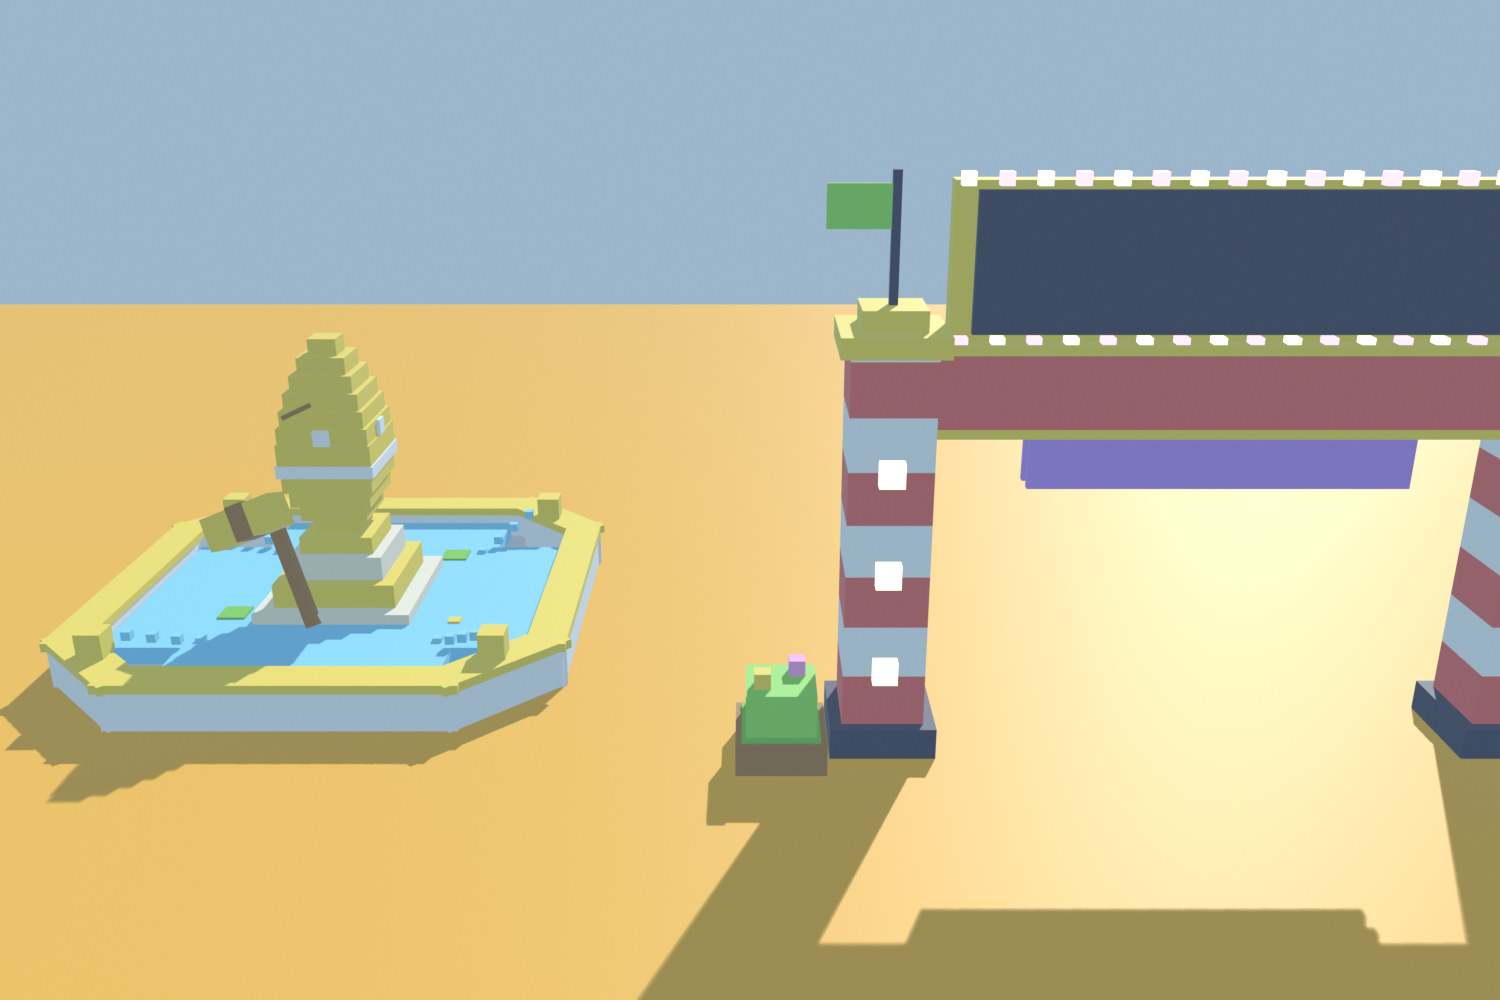
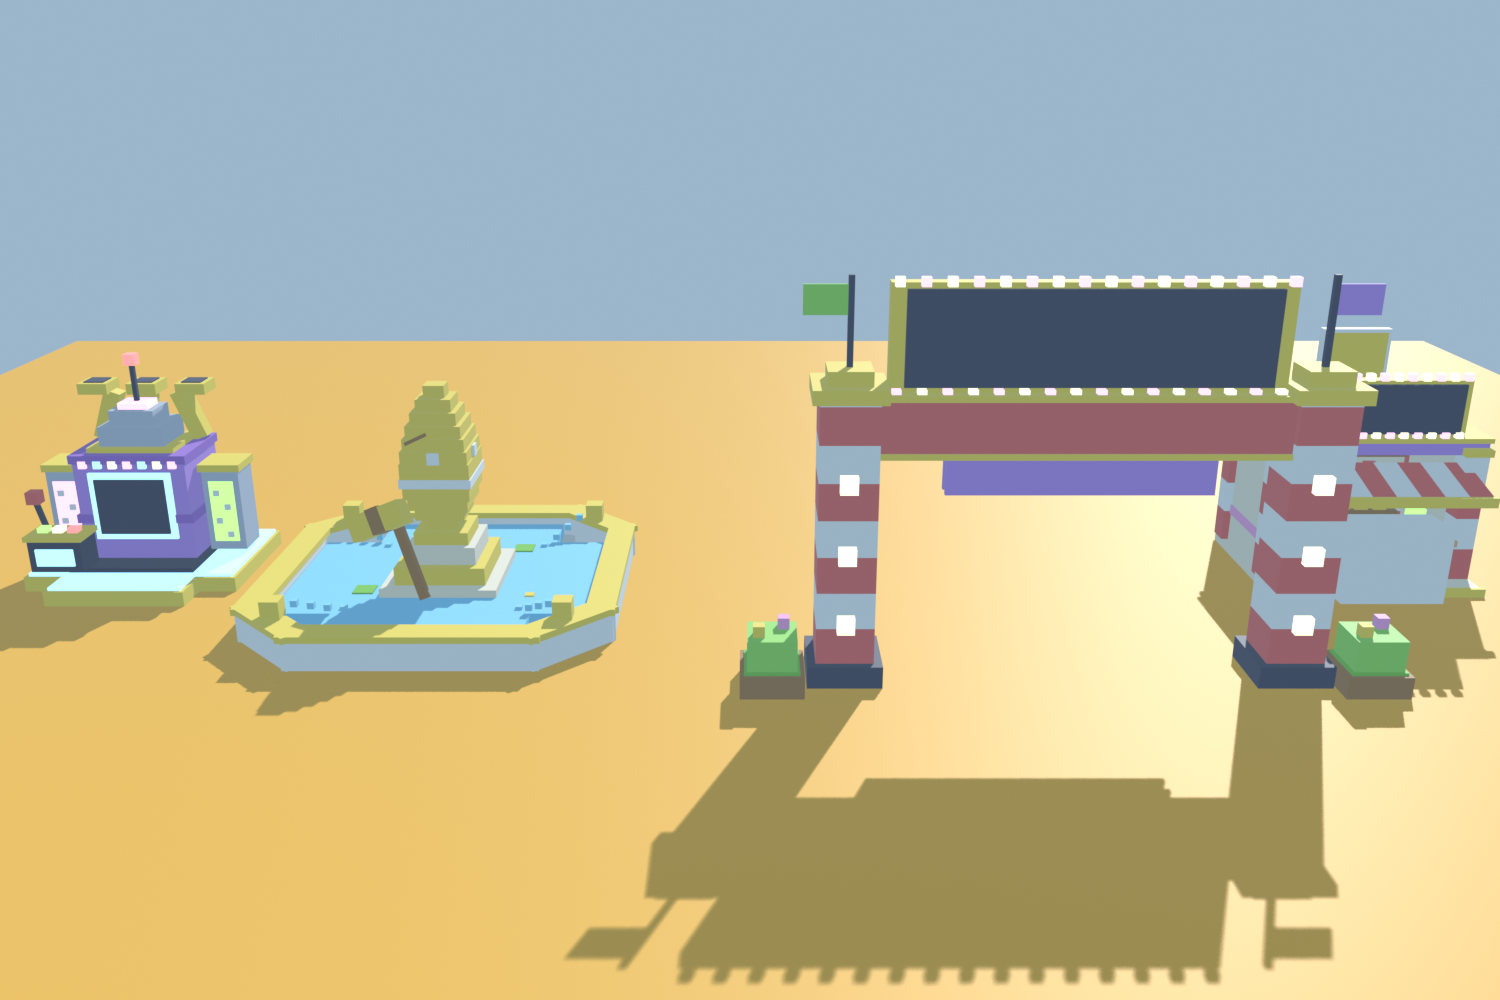
Art pass stage 3: Travel Portal frame (banded pylons, flags, bulb-lit sign), Shop storefront and Mutation Machine rebuilt from Blender on their spots; playtested; log

diff --git a/tools/blender/hub_landmarks.py b/tools/blender/hub_landmarks.py
@@ -4,6 +4,7 @@
 # Same language as the pier (tools/blender/arcade_pier.py): red / white banded legs, gold caps, bulb rows.
 # Every block becomes a studded Part (tools/zones/BuildHubLandmarks.lua); tags: "neon" (Neon, no collision), "water"
 # (glassy, no collision). A block with "txt" gets a SurfaceGui with that text on its "fn" face.
+# Stage 3 (same day): the SHOP storefront and the MUTATION MACHINE, rebuilt on their old spots (names their scripts use kept).
 # Run: /Applications/Blender.app/Contents/MacOS/Blender -b -P tools/blender/hub_landmarks.py  (Windows: blender.exe -b -P)
 # Units: 1 Blender m = 1 stud, Z up; each model's origin is on the ground; the builder places it (PLACE below).
 import bpy, math, json, os
@@ -40,6 +41,7 @@ PAL = dict(
     red=rgb(229, 57, 53), white=rgb(246, 244, 236), gold=rgb(255, 200, 40), ink=rgb(30, 32, 46), cream=rgb(246, 226, 180),
     woodL=rgb(214, 140, 70), woodD=rgb(122, 70, 34), bulb=rgb(255, 236, 150), pink=rgb(255, 120, 200), sky=rgb(90, 200, 255),
     water=rgb(80, 190, 255), stone=rgb(200, 196, 188), green=rgb(98, 205, 48), leaf=rgb(70, 168, 34), purple=rgb(150, 90, 220),
+    steel=rgb(150, 160, 182),
     egg=rgb(255, 196, 40), eggSpot=rgb(250, 248, 240),  # a golden egg with white spots (cream read grey in the hub light)
 )
 
@@ -51,7 +53,7 @@ def root(name):
         ROOTS[name] = o
     return ROOTS[name]
 
-def box(model, name, cx, cy, z0, sx, sy, sz, col, rz=0.0, tag="", txt="", fn=None, rx=0.0, ry=0.0):
+def box(model, name, cx, cy, z0, sx, sy, sz, col, rz=0.0, tag="", txt="", fn=None, rx=0.0, ry=0.0, lbl="", prompt=None, light=None):
     """A block whose bottom sits at z0 (centre cx, cy), in `model`'s own space."""
     o = bpy.data.objects.new(name, me)
     o.scale = (sx, sy, sz)
@@ -61,6 +63,9 @@ def box(model, name, cx, cy, z0, sx, sy, sz, col, rz=0.0, tag="", txt="", fn=Non
     o["tag"] = tag
     o["txt"] = txt
     o["fn"] = list(fn) if fn else []
+    o["lbl"] = lbl
+    o["prompt"] = json.dumps(prompt) if prompt else ""
+    o["light"] = json.dumps(light) if light else ""
     coll.objects.link(o)
     o.parent = root(model)
     return o
@@ -154,6 +159,111 @@ for (x, y) in ((R - 2.5, R - 2.5), (-R + 2.5, R - 2.5), (R - 2.5, -R + 2.5), (-R
 for (x, y, col) in ((6, 3, PAL["leaf"]), (-5, -6, PAL["leaf"]), (4, -7, PAL["gold"]), (-7, 4, PAL["gold"])):
     box(F, "Pad", x, y, 1.6, 1.6 if col == PAL["leaf"] else 0.7, 1.6 if col == PAL["leaf"] else 0.7, 0.12, col)
 
+# ------------------------------------------------------------------ the SHOP (stage 3, 2026-10-16): a brick storefront, its counter facing Blender +Y
+S = "ShopStall"
+box(S, "Floor", 0, 0, 0, 17, 13, 0.6, PAL["cream"])
+box(S, "FloorTrim", 0, 6.55, 0, 17.4, 0.4, 0.7, PAL["gold"])
+box(S, "BackWall", 0, -5.9, 0.6, 15, 1.0, 10.4, PAL["cream"])
+for side in (-1, 1):
+    box(S, "SideWall", side * 7.4, -1.5, 0.6, 1.0, 9.0, 10.4, PAL["cream"])
+    box(S, "SideStripe", side * 7.95, -1.5, 3.0, 0.15, 8.0, 0.8, PAL["pink"])
+    for (cy) in (-5.9, 3.4):  # banded corner posts, like the hub's gate
+        z = 0.6
+        for k in range(4):
+            box(S, "CornerPost", side * 7.6, cy, z, 1.8, 1.8, 2.6, PAL["red"] if k % 2 == 0 else PAL["white"])
+            z += 2.6
+        box(S, "CornerCap", side * 7.6, cy, z, 2.2, 2.2, 0.6, PAL["gold"])
+# shelves on the back wall with what the shop sells
+for (zz) in (3.2, 5.8, 8.4):
+    box(S, "Shelf", 0, -5.0, zz, 12.5, 1.6, 0.3, PAL["woodD"])
+for i, x in enumerate((-4.8, -3.2, -1.6)):  # coin stacks (2x Cash)
+    for k in range(3 + i):
+        box(S, "Coin", x, -5.0, 3.5 + k * 0.32, 1.1, 1.1, 0.3, PAL["gold"])
+for k, w in enumerate((0.9, 1.4, 1.6, 1.5, 1.1, 0.6)):  # a golden egg (Lucky Eggs)
+    box(S, "WareEgg", 1.6, -5.0, 3.5 + k * 0.42, w, w, 0.42, PAL["egg"])
+for i in range(3):  # cash bundles
+    box(S, "Cash", 4.4, -5.0 + (i - 1) * 0.1, 3.5 + i * 0.36, 2.2, 1.0, 0.34, PAL["green"])
+    box(S, "CashBand", 4.4, -5.0 + (i - 1) * 0.1, 3.5 + i * 0.36, 0.4, 1.05, 0.36, PAL["white"])
+box(S, "Boot", -3.6, -5.0, 6.1, 1.0, 1.0, 1.6, PAL["red"])  # speedy boots
+box(S, "BootToe", -3.6, -4.3, 6.1, 1.0, 0.8, 0.7, PAL["red"])
+box(S, "BootWing", -4.25, -5.0, 7.0, 0.25, 0.9, 0.6, PAL["white"])
+box(S, "MiniFirm", 0.5, -5.0, 6.1, 2.4, 1.4, 1.6, PAL["woodL"])  # a bigger firm
+box(S, "MiniFirmRoof", 0.5, -5.0, 7.7, 2.8, 1.6, 0.5, PAL["red"])
+box(S, "Briefcase", 3.8, -5.0, 6.1, 1.8, 0.8, 1.2, PAL["woodD"])
+box(S, "BriefcaseHandle", 3.8, -5.0, 7.3, 0.8, 0.2, 0.3, PAL["gold"])
+for x in (-4.0, 0.0, 4.0):  # a few eggs on the top shelf
+    box(S, "ShelfEgg", x, -5.0, 8.7, 1.0, 1.0, 1.3, [PAL["sky"], PAL["pink"], PAL["green"]][int(x / 4 + 1)])
+# the counter (the prompt sits in front of it) + till
+box(S, "Counter", 0, 3.6, 0.6, 13.0, 2.0, 3.0, PAL["red"])
+box(S, "CounterTop", 0, 3.6, 3.6, 13.6, 2.6, 0.5, PAL["woodL"])
+box(S, "CounterStripe", 0, 4.62, 1.6, 13.0, 0.15, 0.7, PAL["white"])
+box(S, "Till", -4.0, 3.4, 4.1, 2.2, 1.6, 1.2, PAL["ink"])
+box(S, "TillScreen", -4.0, 3.0, 5.3, 1.6, 0.3, 0.9, PAL["green"], tag="neon")
+for k in range(4):
+    box(S, "CoinPile", 3.0 + (k % 2) * 0.6, 3.6, 4.1 + k * 0.3, 1.0, 1.0, 0.3, PAL["gold"])
+# striped awning sloping out over the counter
+for i in range(8):
+    box(S, "Awning", -7.5 + (i + 0.5) * (15 / 8), 5.3, 9.0, 15 / 8 + 0.02, 5.2, 0.4, PAL["red"] if i % 2 == 0 else PAL["white"], rx=-16)
+box(S, "AwningEdge", 0, 7.8, 8.0, 15.4, 0.4, 0.8, PAL["gold"])
+# roof, the SHOP sign with bulbs, a giant coin on top
+box(S, "Roof", 0, -1.5, 11.0, 17.2, 10.6, 1.0, PAL["purple"])
+box(S, "RoofTrim", 0, -1.5, 12.0, 17.6, 11.0, 0.4, PAL["gold"])
+box(S, "SignBack", 0, 3.0, 12.4, 13.2, 1.0, 4.6, PAL["gold"])
+box(S, "Sign", 0, 3.55, 12.7, 12.2, 0.4, 4.0, PAL["ink"], txt="SHOP", fn=(0, 1, 0))
+for i in range(12):
+    t = i / 11
+    for zz in (17.05, 12.3):
+        box(S, "Bulb", -6.0 + 12 * t, 3.7, zz, 0.55, 0.55, 0.55, PAL["bulb"] if (i + int(zz)) % 2 == 0 else PAL["pink"], tag="neon")
+box(S, "CoinStand", 0, -3.5, 12.4, 0.8, 0.8, 2.0, PAL["ink"])
+box(S, "BigCoin", 0, -3.5, 14.4, 5.0, 1.0, 5.0, PAL["gold"], txt="$", fn=(0, 1, 0))
+box(S, "BigCoinRim", 0, -3.5, 14.1, 5.6, 0.8, 5.6, PAL["eggSpot"])
+box(S, "PromptZone", 0, 7.4, 0.6, 8, 4, 6, PAL["white"], tag="prompt",
+    prompt=dict(name="ShopPrompt", action="Open Shop", object="Shop", max=14))
+
+# ------------------------------------------------------------------ the MUTATION MACHINE (stage 3): faces Blender +Y; names its scripts use:
+# Body (MergePrompt), WindowFrame (the scene's focus), Screen (the "?/!" Mark + light), Console, Dome (the Title billboard)
+M = "MergeMachine"
+for (sx, sy) in ((17, 11), (11, 17)):  # gold octagon plinth with a glowing ring
+    box(M, "Plinth", 0, 0, 0, sx, sy, 1.2, PAL["gold"])
+    box(M, "PlinthTrim", 0, 0, 1.2, sx - 0.6, sy - 0.6, 0.25, PAL["sky"], tag="neon")
+box(M, "PlinthTop", 0, 0, 1.45, 10, 10, 0.4, PAL["ink"])
+box(M, "Body", 0, -0.5, 1.85, 9, 6.5, 8.4, PAL["purple"],
+    prompt=dict(name="MergePrompt", action="Mutate", object="Mutation Machine", max=14))
+for zz in (3.6, 8.6):
+    box(M, "BodyBand", 0, -0.5, 1.85 + zz - 0.5, 9.4, 6.9, 0.7, rgb(110, 60, 180))
+box(M, "WindowFrame", 0, 2.85, 3.6, 6.6, 0.3, 5.6, PAL["sky"], tag="neon")
+box(M, "Screen", 0, 3.0, 4.1, 5.6, 0.4, 4.6, PAL["ink"], txt="?", lbl="Mark", fn=(0, 1, 0), light=[1.0, 14, [180, 140, 255]])
+for i in range(7):  # indicator bulbs along the top edge
+    box(M, "Indicator", -3.6 + i * 1.2, 2.85, 9.6, 0.6, 0.4, 0.6, [PAL["pink"], PAL["bulb"], PAL["sky"]][i % 3], tag="neon")
+# the hopper on top: three gold chutes (three lawyers in) into a dome, an antenna with a glowing tip
+box(M, "Cap", 0, -0.5, 10.25, 7, 5.2, 0.8, PAL["gold"])
+box(M, "Dome", 0, -0.5, 11.05, 5.2, 4.2, 1.6, PAL["steel"])
+box(M, "Dome", 0, -0.5, 12.65, 3.6, 3.0, 1.2, PAL["steel"])
+box(M, "CapGlow", 0, -0.5, 13.85, 2.4, 2.0, 0.5, PAL["pink"], tag="neon")
+for k, (x, rz) in enumerate(((-3.4, 20), (0, 0), (3.4, -20))):
+    box(M, "PipeUp", x, -2.6, 10.6, 1.3, 1.3, 4.2, PAL["gold"], ry=rz)
+    box(M, "Funnel", x * 1.18, -2.6, 14.6, 2.4, 2.4, 0.9, PAL["gold"])
+    box(M, "FunnelInner", x * 1.18, -2.6, 15.0, 1.6, 1.6, 0.6, PAL["ink"])
+box(M, "Antenna", 0, -0.5, 14.35, 0.35, 0.35, 3.0, PAL["ink"])
+box(M, "AntennaTip", 0, -0.5, 17.35, 0.9, 0.9, 0.9, PAL["red"], tag="neon")
+# side tanks with bubbling glow
+for side in (-1, 1):
+    tx = side * 6.4
+    box(M, "Tank", tx, -0.8, 1.85, 3.0, 3.0, 6.8, PAL["steel"])
+    box(M, "TankLight", tx, -0.8 + 1.45, 2.6, 2.0, 0.3, 5.2, PAL["green"] if side < 0 else PAL["pink"], tag="neon")
+    for b in range(4):
+        box(M, "Bubble", tx + (0.4 if b % 2 else -0.4), 0.9, 3.0 + b * 1.2, 0.45, 0.2, 0.45, PAL["white"])
+    box(M, "TankCap", tx, -0.8, 8.65, 3.4, 3.4, 0.6, PAL["gold"])
+    box(M, "PipeOver", tx * 0.82, -0.8, 7.4, 2.4, 1.0, 1.0, PAL["gold"])
+# the console, front right: buttons, a screen and a big lever
+box(M, "Console", 5.4, 4.6, 1.85, 4.2, 2.6, 2.6, PAL["ink"])
+box(M, "ConsoleTop", 5.4, 4.6, 4.45, 4.6, 3.0, 0.4, PAL["gold"])
+box(M, "ConsoleScreen", 5.4, 5.95, 2.4, 3.0, 0.2, 1.4, PAL["sky"], tag="neon")
+for i, col in enumerate((PAL["red"], PAL["bulb"], PAL["green"])):
+    box(M, "Button", 4.2 + i * 1.2, 4.6, 4.85, 0.8, 0.8, 0.4, col, tag="neon")
+box(M, "Lever", 7.0, 4.0, 4.85, 0.35, 0.35, 2.6, PAL["ink"], rx=-20)
+box(M, "LeverKnob", 7.0, 4.45, 7.2, 1.0, 1.0, 1.0, PAL["red"])
+
 # ------------------------------------------------------------------ export (Roblox: Y up; X kept, Blender +Y = Roblox -Z)
 def to_rbx(v):
     return [round(v[0], 3), round(v[2], 3), round(-v[1], 3)]
@@ -162,7 +272,11 @@ models = []
 PLACE = {  # Roblox world: x, y (ground top), z, yaw degrees
     "BoardwalkGate": [0, 0.5, 86, 0],  # the old BigCaseGate's spot; sign faces the plaza (-Z)
     "EggFountain": [0, 0.5, 0, 0],
+    # stage 3: same spots as the old ones; yaw turns the front (Roblox -Z at yaw 0) to face the plaza's middle
+    "ShopStall": [-30.4, 0.5, -30.4, -135],
+    "MergeMachine": [31.47, 0.5, -31.47, 135],
 }
+TITLE = {"ShopStall": ["Counter", 21.5], "MergeMachine": ["Dome", 9.0]}  # carry the old Title billboard: onto part, height
 for name, r in ROOTS.items():
     parts = []
     for o in r.children:
@@ -174,8 +288,9 @@ for name, r in ROOTS.items():
         fn = list(o["fn"])
         parts.append(dict(n=o.name.split(".")[0], p=to_rbx(o.location), s=[round(s[0], 3), round(s[2], 3), round(s[1], 3)],
                           r=[round(Rr[i][j], 5) for i in range(3) for j in range(3)], c=list(o["rgb"]), t=o["tag"],
-                          txt=o["txt"] or None, fn=to_rbx(fn) if fn else None))
-    models.append(dict(name=name, place=PLACE[name], parts=parts))
+                          txt=o["txt"] or None, fn=to_rbx(fn) if fn else None, lbl=o["lbl"] or None,
+                          prompt=json.loads(o["prompt"]) if o["prompt"] else None, light=json.loads(o["light"]) if o["light"] else None))
+    models.append(dict(name=name, place=PLACE[name], parts=parts, title=TITLE.get(name)))
 os.makedirs(os.path.dirname(OUT_JSON), exist_ok=True)
 with open(OUT_JSON, "w") as fh:
     json.dump(dict(models=models), fh, separators=(",", ":"))
@@ -204,6 +319,8 @@ for r in ROOTS.values():
         o.material_slots[0].material = material_for(o)
 ROOTS["BoardwalkGate"].location = (-22, 10, 0)
 ROOTS["EggFountain"].location = (24, -4, 0)
+ROOTS["ShopStall"].location = (-50, -10, 0)
+ROOTS["MergeMachine"].location = (50, -10, 0)
 ground = bpy.data.objects.new("Ground", me)
 ground.scale = (200, 200, 1)
 ground.location = (0, 0, -0.5)
@@ -232,7 +349,7 @@ cam = bpy.data.objects.new("HL_Cam", bpy.data.cameras.get("HL_Cam") or bpy.data.
 coll.objects.link(cam)
 sc.camera = cam
 cam.data.lens = 32
-frm, at = (0, 70, 34), (0, 0, 9)  # from the plaza side (Blender +Y)
+frm, at = (0, 95, 42), (0, -4, 8)  # from the plaza side (Blender +Y)
 cam.location = frm
 dx, dy, dz = at[0] - frm[0], at[1] - frm[1], at[2] - frm[2]
 cam.rotation_euler = (math.atan2(math.hypot(dx, dy), -dz), 0, math.atan2(dy, dx) - math.pi / 2)

diff --git a/tools/blender/travel_portal.py b/tools/blender/travel_portal.py
@@ -187,13 +187,17 @@ for side in (-1, 1):
     zz = 1.8
     k = 0
     while zz < HALO_Z + 1.0:
-        box("Pylon", px, py, zz, 2.6, 2.6, 1.6, PAL["white"] if k % 2 == 0 else PAL["white2"])
+        box("Pylon", px, py, zz, 2.6, 2.6, 1.6, PAL["white"] if k % 2 == 0 else PAL["navy2"])  # banded, like the hub's gate / lighthouse
         zz += 1.6
         k += 1
     # a glowing strip down the inner face, gold caps
     ix, iy = px - side * 1.35, py - 0.0
     box("PylonGlow", ix, iy, 2.2, 0.2, 0.9, HALO_Z - 2.6, PAL["cyan"], tag="neon")
     box("PylonCap", px, py, zz, 3.2, 3.2, 0.7, PAL["gold"])
+    box("PylonFinial", px, py, zz + 0.7, 1.6, 1.6, 0.8, PAL["gold"])
+    box("PylonFlagpole", px, py, zz + 1.5, 0.3, 0.3, 4.2, PAL["ink"])
+    for f in range(3):  # little pennants in the zones' colours down each pole
+        box("PylonFlag", px + side * 0.9, py, zz + 4.9 - f * 1.3, 1.6, 0.15, 1.0, ZONE_COLORS[f + (0 if side < 0 else 3)])
     # the arm over to the halo rim
     tx, ty = side * 7.2, 4.6
     dx, dy = tx - px, ty - py
@@ -202,13 +206,19 @@ for side in (-1, 1):
     box("PylonArmGlow", (px + tx) / 2, (py + ty) / 2, HALO_Z + 0.05, L, 0.5, 0.2, PAL["violet"], rz=math.degrees(math.atan2(dy, dx)), tag="neon")
 
 # ------------------------------------------------------------------ the TRAVEL sign floating over the halo's front
-SIGN_Z = HALO_TOP + 2.2
-box("SignPost", -4.2, -2.0, HALO_TOP, 0.5, 0.5, 2.4, PAL["steel"])
-box("SignPost", 4.2, -2.0, HALO_TOP, 0.5, 0.5, 2.4, PAL["steel"])
-box("SignBack", 0, -2.0, SIGN_Z - 0.15, 12.6, 0.6, 2.9, PAL["white"])
-box("SignPlate", 0, -2.4, SIGN_Z, 12.0, 0.25, 2.6, PAL["ink"])  # the builder writes "TRAVEL" on its front
-box("SignGlow", 0, -2.33, SIGN_Z - 0.3, 12.9, 0.2, 0.25, PAL["cyan"], tag="neon")
-box("SignGlow", 0, -2.33, SIGN_Z + 2.65, 12.9, 0.2, 0.25, PAL["cyan"], tag="neon")
+# (2026-10-16 art pass: bigger and higher so it clears the gem crown, framed in bulbs like the BOARDWALK sign)
+SIGN_Z = HALO_TOP + 3.4
+box("SignPost", -5.6, -2.0, HALO_TOP, 0.6, 0.6, 3.6, PAL["gold"])
+box("SignPost", 5.6, -2.0, HALO_TOP, 0.6, 0.6, 3.6, PAL["gold"])
+box("SignBack", 0, -2.0, SIGN_Z - 0.3, 17.2, 0.6, 4.2, PAL["navy2"])
+box("SignTrim", 0, -2.0, SIGN_Z - 0.45, 17.6, 0.5, 0.35, PAL["gold"])
+box("SignTrim", 0, -2.0, SIGN_Z + 3.9, 17.6, 0.5, 0.35, PAL["gold"])
+box("SignPlate", 0, -2.4, SIGN_Z, 16.0, 0.25, 3.4, PAL["ink"])  # the builder writes "TRAVEL" on its front
+for i in range(14):  # bulbs along the top and bottom
+    t = i / 13
+    for zz in (SIGN_Z + 3.55, SIGN_Z - 0.35):
+        box("SignBulb", -7.6 + 15.2 * t, -2.55, zz - 0.25, 0.5, 0.3, 0.5,
+            [PAL["cyan"], PAL["violet"], PAL["gold"]][(i + (1 if zz > SIGN_Z else 0)) % 3], tag="neon")
 
 # walking onto the pad opens the travel map (invisible, no collision)
 box("Trigger", 0, 0, PAD_TOP, 8.0, 8.0, 7.0, PAL["core"], tag="trigger")

diff --git a/SESSION_LOG.md b/SESSION_LOG.md
@@ -10,8 +10,8 @@ Claim big work here before starting (who · what · since), push the claim, remo
   `StarterPlayerScripts.Arcade`, `Config.Arcade`, booths) and the games one by one - progress table in that doc.
   Don't build any of these meanwhile; MinigameService / Gavel Bonk / Lucky Briefcase stay as they are.
 
-- **crnuch (local), since 2026-10-16:** the map art pass (docs/ART_REMODEL_BRIEF.md), stage by stage - next: stage 3
-  hub landmarks. **User's call (crnuch, 2026-10-16): nobody else is working on the minigames - crnuch's sessions took
+- **crnuch (local), since 2026-10-16:** the map art pass (docs/ART_REMODEL_BRIEF.md), stage by stage - next: stage 4
+  (plots) and 5 (lane thresholds). **User's call (crnuch, 2026-10-16): nobody else is working on the minigames - crnuch's sessions took
   over mr.robe's Arcade claim above and Codex's draft PRs #7 / #8 (finished, entry below).**
 
 ## Open items
@@ -154,6 +154,26 @@ Claim big work here before starting (who · what · since), push the claim, remo
 - [ ] Blender remake queue (docs/BLENDER_BRIEF.md): egg machine, palm, props, desk tiers, courtroom pieces.
 - [ ] Enable Studio API access (Game Settings → Security) when ready to test saving.
 - [ ] Resolve design-doc inconsistencies (listed in docs/ECONOMY.md → "Known inconsistencies").
+
+## 2026-10-16 — crnuch, local session: art pass stage 3 (Travel Portal, Shop, Mutation Machine)
+- **Travel Portal** (`tools/blender/travel_portal.py`, rebuilt with `BuildTravelPortal.lua`): animated core kept as it
+  was (SwirlDisc / SwirlArms / FloatRing1-3 / Beam / Gem1-6 / Trigger); the pylons are banded navy / white with gold
+  caps, finials and pennants in the zone colours, and the TRAVEL sign is bigger, higher (clears the gem crown) and
+  framed in cyan / violet / gold bulbs like the BOARDWALK sign. 236 blocks.
+- **Shop + Mutation Machine** now in `tools/blender/hub_landmarks.py` -> `BuildHubLandmarks.lua` (which learned
+  "prompt" / "lbl" / "light" fields and carries a model's old "Title" billboard over). Same spots, facing the plaza's
+  middle; the old ones are in `ServerStorage.Old_HubLandmarks`.
+  - `Hub.ShopStall`: a brick storefront - cream walls, banded red / white corner posts, red / white awning over a red
+    counter with a till and coins, shelves of what it sells (coin stacks, a golden egg, cash, a winged red boot, a
+    mini firm, a briefcase, eggs), purple roof with a lit SHOP sign and a giant gold $ coin. `ShopPrompt` ("Open Shop")
+    on an invisible PromptZone in front of the counter; the "SHOP / Passes & Boosts" billboard above the coin. 114 blocks.
+  - `Hub.MergeMachine`: a chunkier purple machine on a gold octagon plinth with a glowing ring - the "?/!" window
+    (`WindowFrame`, `Screen` with the `Mark` label + light), three gold chutes into a dome on top (three lawyers in),
+    an antenna, pink / green bubbling tanks, a console with buttons, screen and a big lever. `MergePrompt` on `Body`,
+    the `Title` / `Count` billboard on `Dome`. 56 blocks.
+- **Playtested:** the Shop prompt opens the shop, walking onto the portal pad opens the travel map, the Mutation
+  Machine opens and its in-world scene plays at the new window ("!" lit). No game errors. Save restored again after.
+- Signed: Claude (Opus 5.5) for crnuch, local session.
 
 ## 2026-10-16 — crnuch, local session: art pass stage 1 built (lighting, Arcade Boardwalk, Egg Fountain)
 - **Plan approved by crnuch** (docs/ART_REMODEL_BRIEF.md "Stage 1"). Built in order:

diff --git a/docs/ART_REMODEL_BRIEF.md b/docs/ART_REMODEL_BRIEF.md
@@ -1,6 +1,6 @@
 # Cohesive map and model art pass
 
-**Status (2026-10-16): stage 1 plan approved by crnuch; built: lighting grade, the Arcade Boardwalk (pier booths spread, staggered lamps, lighthouse end platform, BOARDWALK gateway) and the Egg Fountain (SESSION_LOG 2026-10-16). Next: stage 3 hub landmarks (Travel Portal, Shop, Mutation Machine), then 4 and 5.** Claim each later stage in the session log before editing.
+**Status (2026-10-16): stage 1 plan approved by crnuch; built: lighting grade, the Arcade Boardwalk (pier booths spread, staggered lamps, lighthouse end platform, BOARDWALK gateway) and the Egg Fountain (SESSION_LOG 2026-10-16). Stage 3 built the same day: Travel Portal frame (banded pylons, flags, bulb-lit TRAVEL sign), the Shop storefront and the Mutation Machine. Next: stage 4 (plots) and 5 (lane thresholds).** Claim each later stage in the session log before editing.
 
 ## Goal
 
